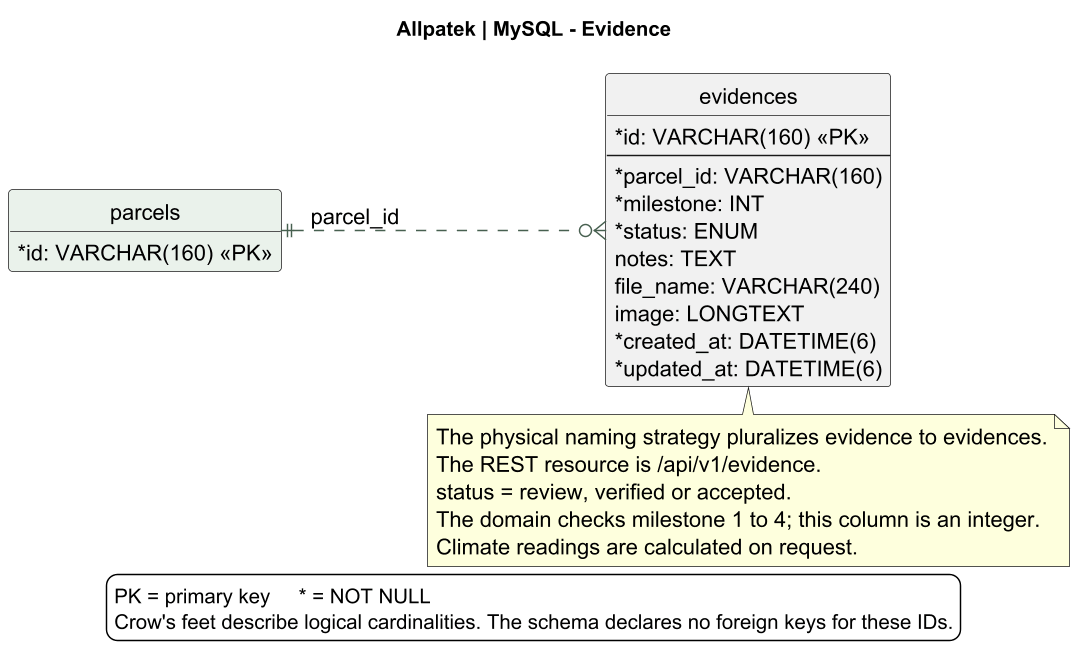
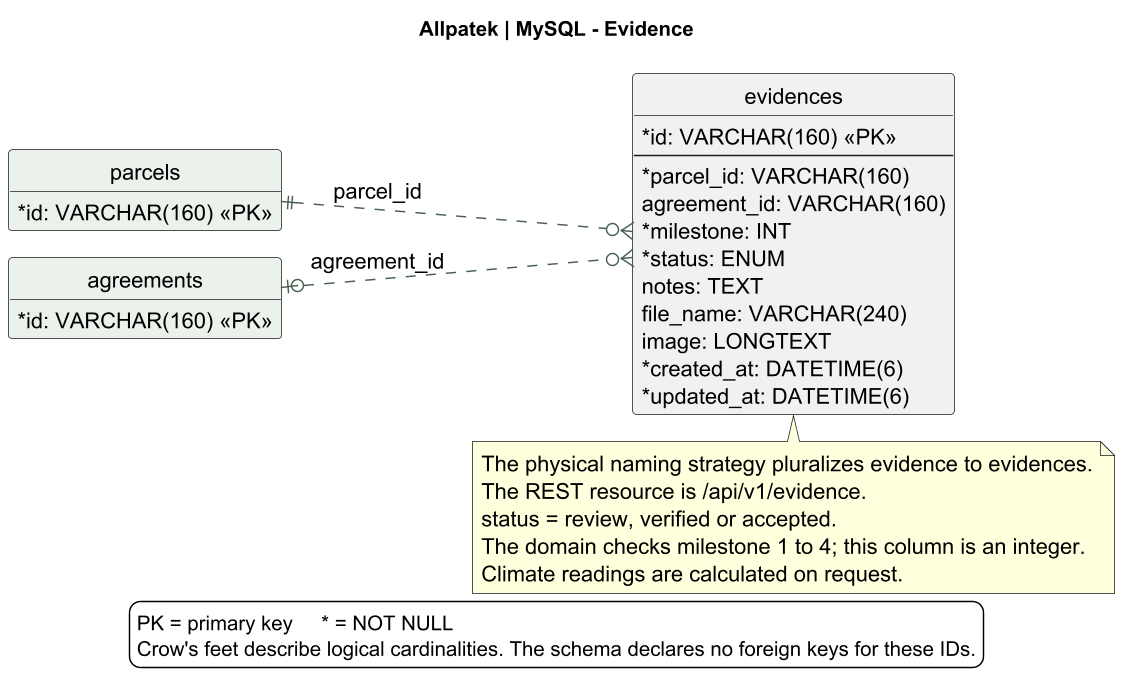
docs(database): map the optional agreement reference on evidence

diff --git a/README.md b/README.md
@@ -2433,11 +2433,11 @@ El identificador del perfil es obligatorio y carece de restricción de unicidad.
 
 *Figura 4.8.1-C. Tabla wallets y perfil.* [Ampliar en SVG](assets/chapter-04/architecture/16-database-payments.svg) · [Fuente PlantUML](assets/chapter-04/architecture/16-database-payments.puml).
 
-Cada evidencia contiene el identificador de parcela, número de hito, estado y, cuando se adjuntan, notas y archivo. El pronóstico se calcula al consultar y carece de tabla propia.
+Cada evidencia conserva la parcela, la referencia opcional al acuerdo, el número de hito, el estado y los datos del adjunto. Los eventos de verificación y liberación se originan en las transiciones del agregado.
 
-![Figura 4.8.1-D. Tabla evidences y parcela](assets/chapter-04/architecture/17-database-monitoring.png)
+![Figura 4.8.1-D. Tabla evidences y referencias a parcela y acuerdo](assets/chapter-04/architecture/17-database-monitoring.png)
 
-*Figura 4.8.1-D. Tabla evidences y parcela.* [Ampliar en SVG](assets/chapter-04/architecture/17-database-monitoring.svg) · [Fuente PlantUML](assets/chapter-04/architecture/17-database-monitoring.puml).
+*Figura 4.8.1-D. Tabla evidences y referencias a parcela y acuerdo.* [Ampliar en SVG](assets/chapter-04/architecture/17-database-monitoring.svg) · [Fuente PlantUML](assets/chapter-04/architecture/17-database-monitoring.puml).
 
 El sistema asigna el identificador del perfil. El correo es obligatorio y único. Las tablas que guardan ese identificador como referencia se muestran en la vista general.
 
